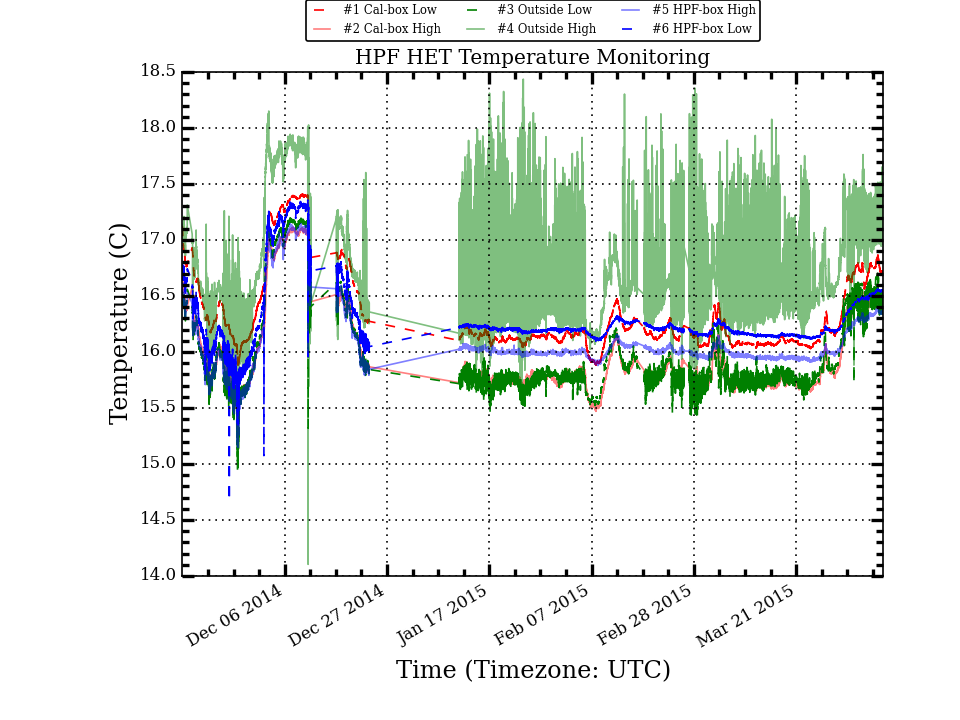
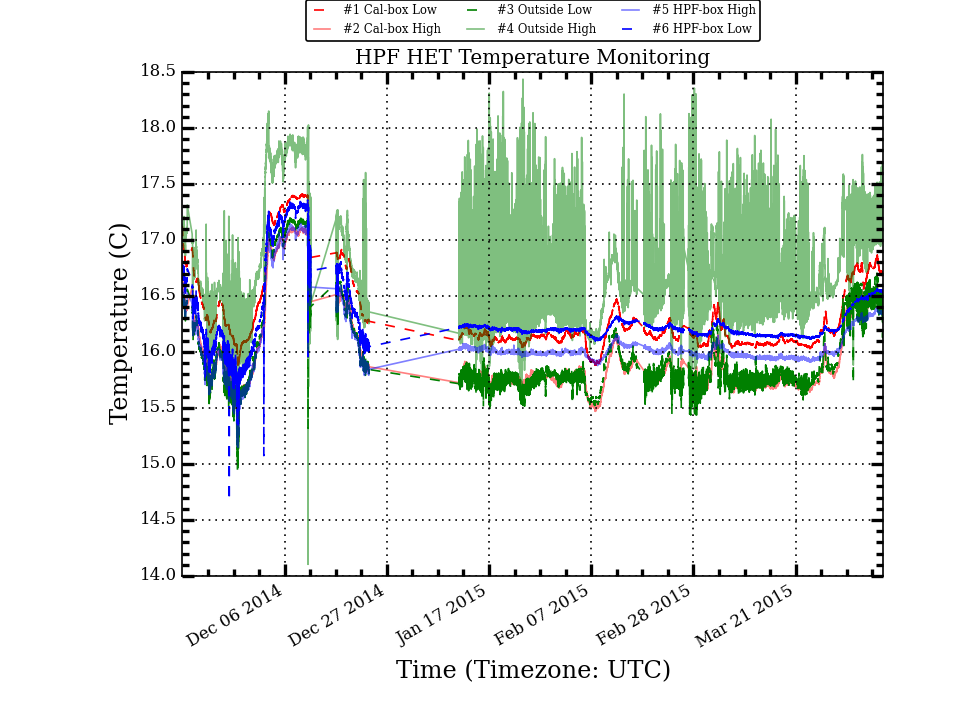
Update HPF Temp Plots

diff --git a/research/hpf_temps/plots/LakeShoreLogTotal_stats.html b/research/hpf_temps/plots/LakeShoreLogTotal_stats.html
@@ -19,16 +19,16 @@
  </TR>
  <TR>
   <TD>Cal_High</TD>
-  <TD>15.965</TD>
+  <TD>15.966</TD>
   <TD>0.378</TD>
-  <TD>15.807</TD>
+  <TD>15.808</TD>
   <TD>17.114</TD>
   <TD>15.410</TD>
   <TD>1.704</TD>
  </TR>
  <TR>
   <TD>Out_Low</TD>
-  <TD>15.974</TD>
+  <TD>15.975</TD>
   <TD>0.406</TD>
   <TD>15.799</TD>
   <TD>17.201</TD>
@@ -37,7 +37,7 @@
  </TR>
  <TR>
   <TD>Out_High</TD>
-  <TD>16.699</TD>
+  <TD>16.700</TD>
   <TD>0.463</TD>
   <TD>16.563</TD>
   <TD>18.436</TD>
